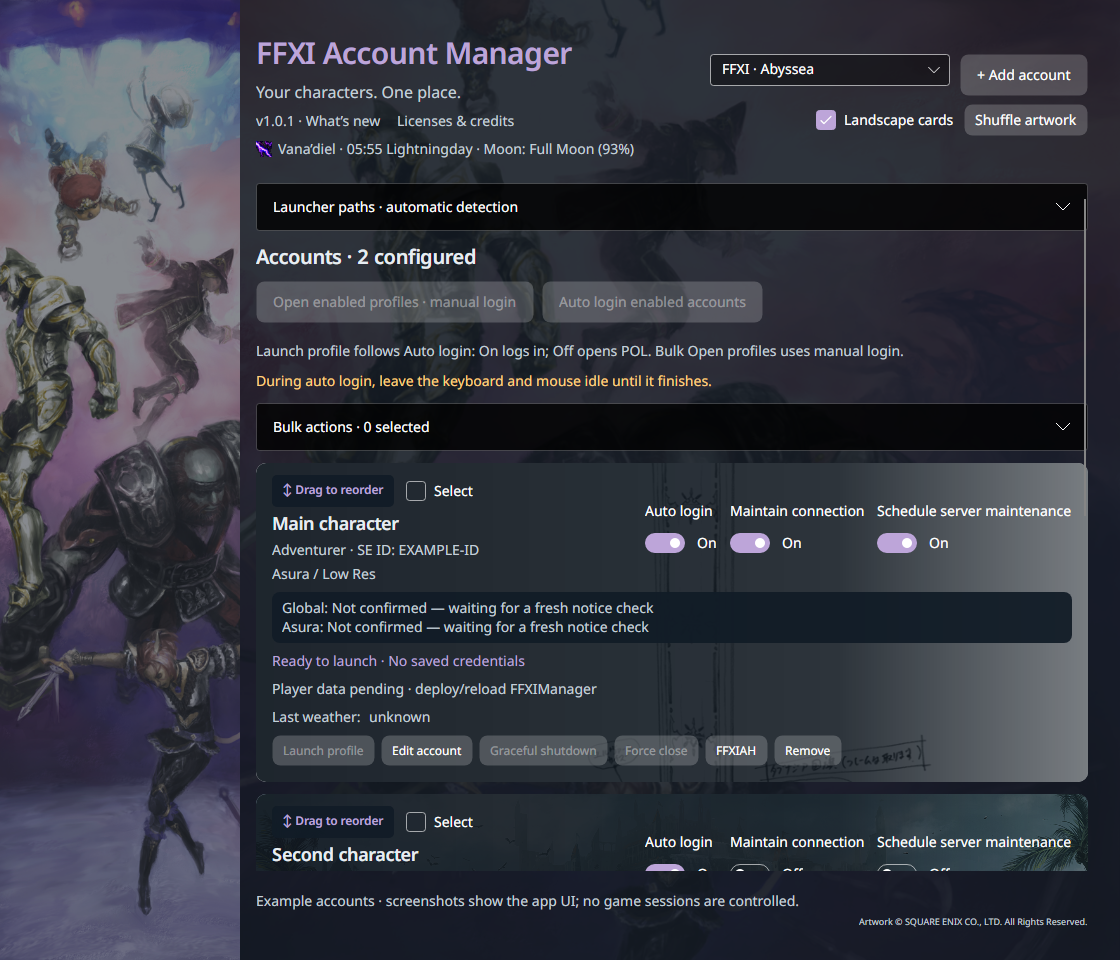
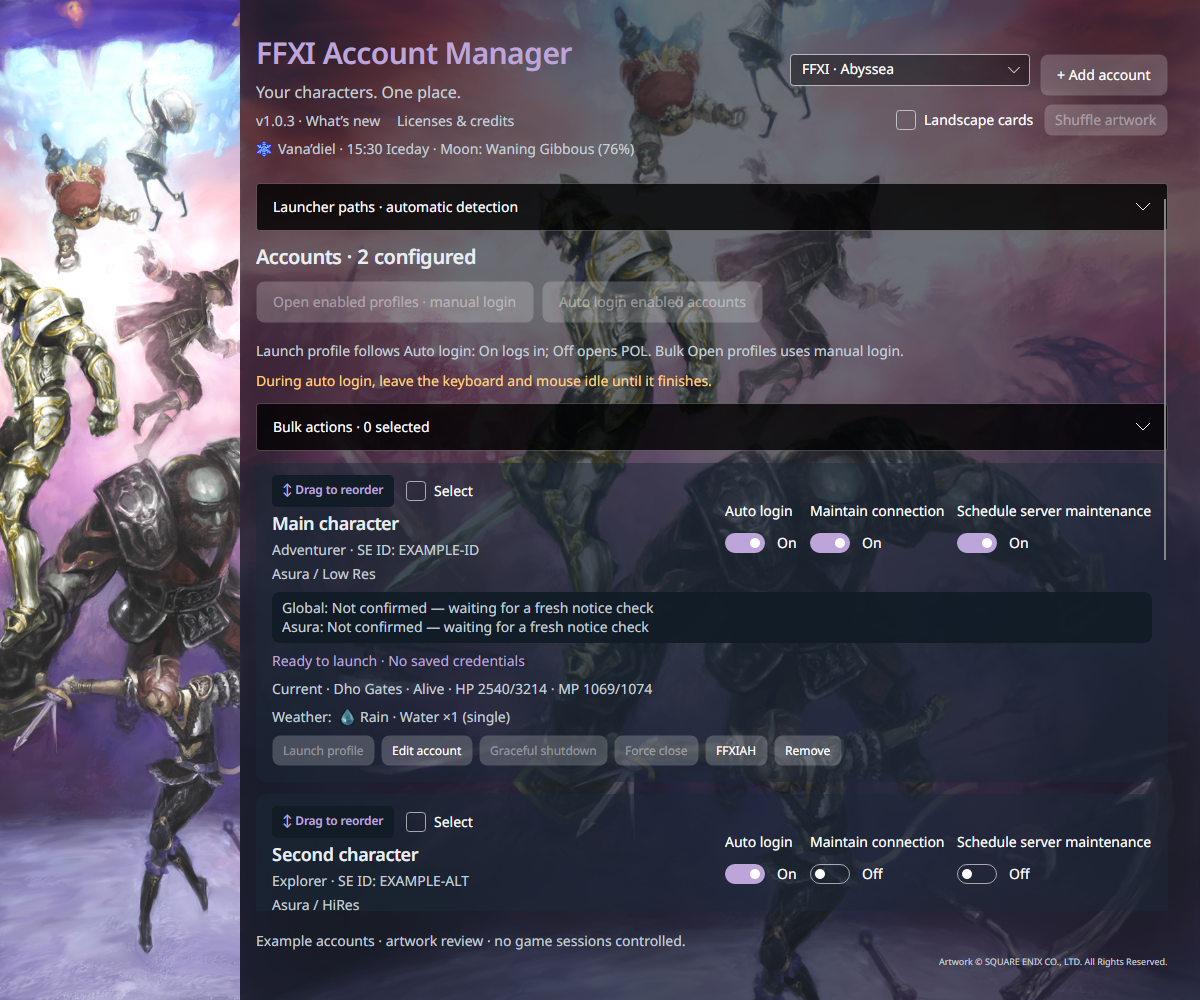
Refresh artwork themes with matching crops and translucent cards

diff --git a/tests/FFXILauncher.Desktop.Smoke/ThemePreviews.cs b/tests/FFXILauncher.Desktop.Smoke/ThemePreviews.cs
@@ -1,0 +1,76 @@
+using Avalonia;
+using Avalonia.Controls;
+using Avalonia.Headless;
+using Avalonia.Media;
+using Avalonia.Media.Imaging;
+using Avalonia.Threading;
+using FFXILauncher.Core;
+using FFXILauncher.Desktop;
+using System.Net;
+
+internal static class ThemePreviews
+{
+    public static void Render()
+    {
+        var root = Path.Combine(Path.GetTempPath(), "ffxi-theme-review-" + Guid.NewGuid());
+        Directory.CreateDirectory(root);
+        var output = "artifacts/theme-review";
+        Directory.CreateDirectory(output);
+        var main = new AccountConfiguration(Guid.NewGuid(), "Main character", "Low Res", "Adventurer", "Asura", "", "EXAMPLE-ID", true, true, ScheduleMaintenance: true);
+        var alt = new AccountConfiguration(Guid.NewGuid(), "Second character", "HiRes", "Explorer", "Asura", "", "EXAMPLE-ALT", false, true);
+        var data = Path.Combine(root, "addons", "FFXIManager", "data");
+        Directory.CreateDirectory(data);
+        foreach (var a in new[] { main, alt })
+        {
+            var time = DateTimeOffset.UtcNow.ToUnixTimeSeconds();
+            var report = $"1234567890_abcdef0123456789\n{a.Character}\n{a.World}\n{time-60}\n{time}\n";
+            var stem = a.World.ToLowerInvariant()+"_"+a.Character.ToLowerInvariant();
+            File.WriteAllText(Path.Combine(data, stem+".status"), report);
+            File.WriteAllText(Path.Combine(data, stem+".state"), report+"2540\n3214\n1069\n1074\n0\n272\nDho Gates\n0\n");
+            File.WriteAllText(Path.Combine(data, stem+".environment"), report+"272\nRain\n480\nWatersday\nFull Moon\n100\n");
+        }
+        new ConfigurationStore(root).Save(new LauncherConfiguration(WindowerPath: Path.Combine(root, "Windower.exe"), Accounts: [main,alt], LandscapeCards: false));
+        var window = new MainWindow(root, false) { Width = 1200, Height = 1000 };
+        window.Show();
+        window.FindControl<TextBlock>("Footer")!.Text = "Example accounts · artwork review · no game sessions controlled.";
+        window.FindControl<Expander>("LauncherSetup")!.IsExpanded = false;
+        foreach (var theme in ThemeCatalog.All)
+        {
+            window.FindControl<ComboBox>("ThemePicker")!.SelectedItem = theme;
+            Dispatcher.UIThread.RunJobs();
+            Capture(window, output+"/"+theme.Id+".png");
+        }
+        window.FindControl<ComboBox>("ThemePicker")!.SelectedItem = ThemeCatalog.Resolve("abyssea");
+        window.Width = 900;
+        Dispatcher.UIThread.RunJobs();
+        Capture(window, output+"/abyssea-narrow.png");
+        window.Close();
+        Sheet(ThemeCatalog.All.Where(t => t.Artwork != null).ToArray(), output, "artwork-sheet.png", 3);
+        Sheet(ThemeCatalog.All.Where(t => t.Artwork == null).ToArray(), output, "ui-sheet.png", 2);
+        var links = string.Join("\n", ThemeCatalog.All.Select(t => $"<a href='{t.Id}.png' target='_blank'><img src='{t.Id}.png' alt='{WebUtility.HtmlEncode(t.Name)}'><strong>{WebUtility.HtmlEncode(t.Name)}</strong></a>"));
+        File.WriteAllText(output+"/index.html", "<!doctype html><meta charset='utf-8'><title>FFXI theme review</title><style>body{background:#101720;color:#e5edf5;font:16px system-ui;margin:32px}main{display:grid;grid-template-columns:repeat(auto-fit,minmax(320px,1fr));gap:24px}a{color:inherit;text-decoration:none}img{width:100%;border-radius:10px}strong{display:block;margin:8px 0}</style><h1>FFXI artwork themes</h1><p>Actual app renders with example accounts. Click a theme for full size. Artwork is cropped at its original aspect ratio. Expanded views show a tall left panel and matching right background; character cards use the translucent setting.</p><main>"+links+"</main>");
+        Directory.Delete(root, true);
+    }
+    private static void Capture(Window window, string path)
+    {
+        using var frame = window.CaptureRenderedFrame() ?? throw new InvalidOperationException("Missing theme frame.");
+        frame.Save(path, PngBitmapEncoderOptions.Default);
+    }
+    private static void Sheet(AppTheme[] themes, string output, string name, int columns)
+    {
+        var rows = (themes.Length+columns-1)/columns;
+        var window = new Window { Width=columns*390, Height=rows*360, Background=Brush.Parse("#101720") };
+        var grid = new Grid { Margin=new Thickness(8), ColumnDefinitions=new ColumnDefinitions(string.Join(',',Enumerable.Repeat("*",columns))), RowDefinitions=new RowDefinitions(string.Join(',',Enumerable.Repeat("*",rows))) };
+        var images = new List<Bitmap>();
+        for (var i=0;i<themes.Length;i++)
+        {
+            var bitmap=new Bitmap(output+"/"+themes[i].Id+".png"); images.Add(bitmap);
+            var panel=new StackPanel { Margin=new Thickness(8), Spacing=6 };
+            panel.Children.Add(new Image { Source=bitmap, Height=318, Stretch=Stretch.Uniform });
+            panel.Children.Add(new TextBlock { Text=themes[i].Name, Foreground=Brush.Parse("#E5EDF5"), FontSize=14, HorizontalAlignment=Avalonia.Layout.HorizontalAlignment.Center });
+            Grid.SetColumn(panel,i%columns);Grid.SetRow(panel,i/columns);grid.Children.Add(panel);
+        }
+        window.Content=grid;window.Show();Dispatcher.UIThread.RunJobs();Capture(window,output+"/"+name);window.Close();
+        foreach (var image in images) image.Dispose();
+    }
+}

diff --git a/tests/FFXILauncher.Desktop.Smoke/Program.cs b/tests/FFXILauncher.Desktop.Smoke/Program.cs
@@ -237,6 +237,7 @@ if (args.Contains("--maintenance-live"))
 }
 
 AppBuilder.Configure<App>().UseSkia().UseHeadless(new AvaloniaHeadlessPlatformOptions { UseHeadlessDrawing = false }).SetupWithoutStarting();
+if (args.Contains("--theme-previews")) { ThemePreviews.Render(); return; }
 if (args.Contains("--readme-images")) { ReadmeImages.Render(); return; }
 if (args.Contains("--art-concepts")) { ArtworkConcepts.Render(); return; }
 var directory = Path.Combine(Path.GetTempPath(), "ffxi-ui-" + Guid.NewGuid());
@@ -397,12 +398,13 @@ configured.FindControl<Expander>("LauncherSetup")!.IsExpanded = false;
 Dispatcher.UIThread.RunJobs();
 using (var frame = configured.CaptureRenderedFrame() ?? throw new Exception("No configured frame")) frame.Save("artifacts/dashboard-accounts.png", PngBitmapEncoderOptions.Default);
 Console.WriteLine("PASS: configured dashboard and maintenance persistence.");
-if (ThemeCatalog.All.Count != 20 || ThemeCatalog.All.Count(t => t.Artwork != null) != 15) throw new Exception("Theme picker must contain five UI and fifteen artwork themes.");
+if (ThemeCatalog.All.Count != 16 || ThemeCatalog.All.Count(t => t.Artwork != null) != 12) throw new Exception("Theme picker must contain four dark UI and twelve artwork themes.");
 var themePicker = configured.FindControl<ComboBox>("ThemePicker")!;
 foreach (var theme in ThemeCatalog.All)
 {
     themePicker.SelectedItem = theme;
     Dispatcher.UIThread.RunJobs();
+    if (theme.Artwork != null && (!configured.FindControl<Border>("PortraitFrame")!.IsVisible || configured.FindControl<Image>("PortraitArtwork")!.Source is not CroppedBitmap || configured.FindControl<Image>("BackgroundArtwork")!.Source is not CroppedBitmap)) throw new Exception("Every artwork theme needs aspect-preserving expanded crops.");
     if (new ConfigurationStore(directory).Load().Theme != theme.Id) throw new Exception("Selected theme did not persist.");
     if ((configured.FindControl<Image>("BackgroundArtwork")!.Source != null) != (theme.Artwork != null)) throw new Exception("Artwork theme did not load: " + theme.Id + " · " + configured.FindControl<TextBlock>("Activity")!.Text);
 }
@@ -417,6 +419,10 @@ if (savedArtwork.Any(pair => shuffledArtwork[pair.Key] == pair.Value)) throw new
 configured.FindControl<CheckBox>("LandscapeCardsToggle")!.IsChecked = false;
 Dispatcher.UIThread.RunJobs();
 if (new ConfigurationStore(directory).Load().LandscapeCards) throw new Exception("Card artwork preference must persist.");
+var translucentCard = configured.FindControl<StackPanel>("AccountList")!.Children.OfType<Border>().First();
+if (translucentCard.Background is not SolidColorBrush cardBrush || cardBrush.Color.A >= 160) throw new Exception("Disabling landscape cards must reveal the theme through translucent surfaces.");
+foreach (var removed in new[] { "paper", "misareaux", "sorrows", "leafallia" })
+    if (ThemeCatalog.Resolve(removed).Id != "midnight") throw new Exception("Removed themes must fall back to Midnight.");
 configured.FindControl<CheckBox>("LandscapeCardsToggle")!.IsChecked = true;
 Dispatcher.UIThread.RunJobs();
 if (new ConfigurationStore(directory).Load().CharacterArtwork!.Any(pair => shuffledArtwork[pair.Key] != pair.Value)) throw new Exception("Toggling artwork must preserve chosen landscapes.");
@@ -429,9 +435,9 @@ if (configured.FindControl<Border>("PortraitFrame")!.IsVisible) throw new Except
 configured.Width = 1120;
 Dispatcher.UIThread.RunJobs();
 using (var frame = configured.CaptureRenderedFrame()!) frame.Save("artifacts/dashboard-ffxi-theme.png", PngBitmapEncoderOptions.Default);
-themePicker.SelectedItem = ThemeCatalog.Resolve("paper");
+themePicker.SelectedItem = ThemeCatalog.Resolve("nord");
 Dispatcher.UIThread.RunJobs();
-using (var frame = configured.CaptureRenderedFrame()!) frame.Save("artifacts/dashboard-paper-theme.png", PngBitmapEncoderOptions.Default);
+using (var frame = configured.CaptureRenderedFrame()!) frame.Save("artifacts/dashboard-nord-theme.png", PngBitmapEncoderOptions.Default);
 themePicker.SelectedItem = ThemeCatalog.Resolve("midnight");
 Dispatcher.UIThread.RunJobs();
 if (ThemeCatalog.Resolve("unknown").Id != "midnight") throw new Exception("Unknown saved theme must fall back safely.");
@@ -440,7 +446,7 @@ configured.FindControl<Button>("CopyAddonCommandButton")!.RaiseEvent(new RoutedE
 Dispatcher.UIThread.RunJobs();
 if (configured.Clipboard!.TryGetTextAsync().GetAwaiter().GetResult() != "//lua load FFXIManager" || !configured.FindControl<TextBox>("InitialAddonCommand")!.IsReadOnly) throw new Exception("Copy action must write the displayed command and retain manual text selection.");
 configured.FindControl<Grid>("AddonCommandPanel")!.IsVisible = false;
-Console.WriteLine("PASS: all twenty themes load, theme choice persists, unknown themes fall back, and command icon writes the displayed clipboard text.");
+Console.WriteLine("PASS: all sixteen themes load, theme choice persists, unknown themes fall back, and command icon writes the displayed clipboard text.");
 configured.Height = 2200;
 Dispatcher.UIThread.RunJobs();
 var beforeDrag = new ConfigurationStore(directory).Load().ConfiguredAccounts.ToArray();

diff --git a/src/FFXILauncher.Desktop/MainWindow.axaml.cs b/src/FFXILauncher.Desktop/MainWindow.axaml.cs
@@ -191,8 +191,8 @@ public sealed partial class MainWindow : Window
         }
         ThemeCatalog.Apply(theme);
         BackgroundArtwork.Source = nextArtwork;
-        PortraitArtwork.Source = theme.Portrait ? nextArtwork : null;
-        BackgroundArtwork.Opacity = theme.Portrait ? .25 : .55;
+        PortraitArtwork.Source = nextArtwork;
+        BackgroundArtwork.Opacity = .85;
         themeArtwork?.Dispose();
         themeArtwork = nextArtwork;
         ArtworkShade.IsVisible = nextArtwork != null;
@@ -202,9 +202,32 @@ public sealed partial class MainWindow : Window
     }
     private void UpdateArtworkLayout()
     {
-        var portrait = ThemeCatalog.Resolve(configuration.Theme).Portrait && Bounds.Width >= 1050;
+        var theme = ThemeCatalog.Resolve(configuration.Theme);
+        var portrait = theme.Artwork != null && Bounds.Width >= 1050;
         PortraitFrame.IsVisible = portrait;
+        ArtworkPanels.ColumnDefinitions[0].Width = new GridLength(portrait ? 240 : 0);
         MainContentGrid.Margin = new Thickness(portrait ? 256 : 32, 32, 32, 32);
+        if (themeArtwork != null && Bounds.Height > 0)
+        {
+            PortraitArtwork.Source = CropArtwork(themeArtwork, 240 / Bounds.Height, theme.SideFocus);
+            BackgroundArtwork.Source = CropArtwork(themeArtwork, Math.Max(1, Bounds.Width - (portrait ? 240 : 0)) / Bounds.Height, theme.BackgroundFocus);
+        }
+    }
+    private static CroppedBitmap CropArtwork(Bitmap source, double ratio, double focus)
+    {
+        var size = source.PixelSize;
+        var width = Math.Min(size.Width, Math.Max(1, (int)Math.Round(size.Height * ratio)));
+        var height = Math.Min(size.Height, Math.Max(1, (int)Math.Round(size.Width / ratio)));
+        var x = (int)Math.Clamp(size.Width * focus - width / 2d, 0, size.Width - width);
+        var y = (size.Height - height) / 2;
+        return new CroppedBitmap { Source = source, SourceRect = new PixelRect(x, y, width, height) };
+    }
+    private IBrush CharacterCardBrush()
+    {
+        var theme = ThemeCatalog.Resolve(configuration.Theme);
+        if (configuration.LandscapeCards || theme.Artwork == null) return ThemeCatalog.BrushFor("Surface");
+        var color = Color.Parse(theme.Surface);
+        return new SolidColorBrush(Color.FromArgb(125, color.R, color.G, color.B));
     }
     private Bitmap LandscapeBitmap(string file)
     {
@@ -452,7 +475,7 @@ public sealed partial class MainWindow : Window
             actions.Children.Add(launch); actions.Children.Add(edit); actions.Children.Add(stop); actions.Children.Add(force); actions.Children.Add(lookup); actions.Children.Add(delete);
             foreach (var button in actions.Children.OfType<Button>()) { button.Padding = new Thickness(10, 6); button.Margin = new Thickness(0, 0, 6, 4); button.FontSize = 12; }
             body.Children.Add(actions);
-            var card = new Border { Tag = account.Id, Background = ThemeCatalog.BrushFor("Surface"), CornerRadius = new CornerRadius(10), Padding = new Thickness(16, 12), Child = body };
+            var card = new Border { Tag = account.Id, Background = CharacterCardBrush(), CornerRadius = new CornerRadius(10), Padding = new Thickness(16, 12), Child = body };
             if (configuration.LandscapeCards && ThemeCatalog.Resolve(configuration.Theme).Artwork != null)
             {
                 var selectedArt = configuration.CharacterArtwork?.GetValueOrDefault(account.Id);

diff --git a/src/FFXILauncher.Desktop/ThemeCatalog.cs b/src/FFXILauncher.Desktop/ThemeCatalog.cs
@@ -5,7 +5,7 @@ using Avalonia.Styling;
 
 namespace FFXILauncher.Desktop;
 
-public sealed record AppTheme(string Id, string Name, string Background, string Surface, string Inset, string Text, string Muted, string Accent, bool Light = false, string? Artwork = null, bool Portrait = false, string? Credit = null)
+public sealed record AppTheme(string Id, string Name, string Background, string Surface, string Inset, string Text, string Muted, string Accent, bool Light = false, string? Artwork = null, bool Portrait = false, string? Credit = null, double SideFocus = .5, double BackgroundFocus = .5)
 {
     public override string ToString() => Name;
 }
@@ -18,12 +18,8 @@ public static class ThemeCatalog
         new("nord", "UI · Nord", "#2E3440", "#3B4252", "#303744", "#ECEFF4", "#C0CBDA", "#88C0D0"),
         new("dracula", "UI · Dracula", "#282A36", "#343746", "#222430", "#F8F8F2", "#C4BDDF", "#BD93F9"),
         new("mocha", "UI · Mocha", "#1E1E2E", "#313244", "#181825", "#CDD6F4", "#BAC2DE", "#CBA6F7"),
-        new("paper", "UI · Paper", "#F3F4F6", "#FFFFFF", "#E7EBF0", "#182433", "#4A586C", "#00685A", true),
         new("adoulin", "FFXI · Western Adoulin", "#151B22", "#E51E2933", "#EB141D26", "#F2E9DC", "#CEC7BB", "#E9BB72", Artwork: "Adoulin.jpg"),
-        new("leafallia", "FFXI · Lufaise Meadows", "#14211C", "#E520332B", "#EB15261E", "#F0F5E5", "#C7D8C0", "#B8DA83", Artwork: "Lufaise.jpg"),
         new("rakaznar", "FFXI · Promyvion", "#191626", "#E52C2541", "#EB201B32", "#F2EAFD", "#D1C0E1", "#C0A0F0", Artwork: "Promyvion.jpg"),
-        new("misareaux", "FFXI · Misareaux Coast", "#101E27", "#E51C3443", "#EB122532", "#E5F7FA", "#B5D4E0", "#74D5E0", Artwork: "Misareaux.jpg"),
-        new("sorrows", "FFXI · Tavnazian Safehold", "#221A18", "#E5392D26", "#EB281F1A", "#FFF0DD", "#D6C2AC", "#EBA577", Artwork: "Tavnazian.jpg"),
         new("eastern-adoulin", "FFXI · Eastern Adoulin", "#101820", "#E51B2937", "#F0111C27", "#E7EDF2", "#C3CFD8", "#97C9D6", Artwork: "EasternAdoulin.jpg", Portrait: false),
         new("ulbuka", "FFXI · East Ulbuka", "#101820", "#E51B2937", "#F0111C27", "#E7EDF2", "#C3CFD8", "#98CAB5", Artwork: "Ulbuka.jpg", Portrait: false),
         new("amano-aht", "FFXI · Treasures of Aht Urhgan", "#101820", "#E51B2937", "#F0111C27", "#E7EDF2", "#C3CFD8", "#D5C59D", Artwork: "Amano5.jpg", Portrait: true, Credit: "©2006 YOSHITAKA AMANO · © SQUARE ENIX"),
@@ -36,7 +32,7 @@ public static class ThemeCatalog
         new("abyssea", "FFXI · Abyssea", "#101820", "#E51B2937", "#F0111C27", "#E7EDF2", "#C3CFD8", "#BDA5D9", Artwork: "Illustration6.jpg", Portrait: true)
     };
 
-    public static IReadOnlyList<string> Landscapes { get; } = new[] { "Ulbuka.jpg", "Adoulin.jpg", "EasternAdoulin.jpg", "Lufaise.jpg", "Misareaux.jpg", "Promyvion.jpg", "Tavnazian.jpg" };
+    public static IReadOnlyList<string> Landscapes { get; } = new[] { "Ulbuka.jpg", "Adoulin.jpg", "EasternAdoulin.jpg", "Promyvion.jpg" };
     public static string DefaultLandscape(Guid account) => Landscapes[(int)(BitConverter.ToUInt32(account.ToByteArray(), 0) % (uint)Landscapes.Count)];
     public static AppTheme Resolve(string? id) => All.FirstOrDefault(t => t.Id == id) ?? All[0];
     public static void Apply(AppTheme theme)

diff --git a/src/FFXILauncher.Desktop/AppPayload.cs b/src/FFXILauncher.Desktop/AppPayload.cs
@@ -81,8 +81,16 @@ internal static class AppPayload
         using var iconStream = Avalonia.Platform.AssetLoader.Open(new Uri("avares://FFXILauncher.Desktop/Assets/Weather/Water.png"));
         using var icon = new Avalonia.Media.Imaging.Bitmap(iconStream);
         var nativeImageDecoded = icon.PixelSize.Width > 0 && icon.PixelSize.Height > 0;
+        var artworkThemesVerified = 0;
+        foreach (var theme in ThemeCatalog.All.Where(t => t.Artwork != null))
+        {
+            using var artworkStream = Avalonia.Platform.AssetLoader.Open(new Uri("avares://FFXILauncher.Desktop/Assets/Themes/" + theme.Artwork));
+            using var artwork = new Avalonia.Media.Imaging.Bitmap(artworkStream);
+            if (artwork.PixelSize.Width <= 0 || artwork.PixelSize.Height <= 0) throw new IOException("Invalid bundled artwork.");
+            artworkThemesVerified++;
+        }
         var installSource = InstallSource();
-        return new { Version = AppRelease.Version, Standalone, SupportFilesVerified = count, NativeImageDecoded = nativeImageDecoded,
+        return new { Version = AppRelease.Version, Standalone, SupportFilesVerified = count, ArtworkThemesVerified = artworkThemesVerified, NativeImageDecoded = nativeImageDecoded,
             InstallerPrepared = System.IO.File.Exists(Path.Combine(installSource, "FFXILauncher.Desktop.exe")),
             LicensesAvailable = AppRelease.Licenses.Contains("MIT License"), BuildIdentity };
     }

diff --git a/docs/themes/README.md b/docs/themes/README.md
@@ -1,0 +1,36 @@
+# Theme previews — v1.0.3
+
+Actual application renders with example accounts. No real credentials or game sessions are used. Landscape cards are off to show the translucent surfaces. Expanded artwork views use aspect-preserving crops in the left panel and matching right background.
+
+## Artwork themes
+
+![All twelve artwork themes](artwork-sheet.png)
+
+## Dark UI themes
+
+![Four dark UI themes](ui-sheet.png)
+
+## Full-size examples
+
+| Theme | Preview |
+|---|---|
+| UI · Midnight | [Full size](midnight.png) |
+| UI · Nord | [Full size](nord.png) |
+| UI · Dracula | [Full size](dracula.png) |
+| UI · Mocha | [Full size](mocha.png) |
+| FFXI · Western Adoulin | [Full size](adoulin.png) |
+| FFXI · Promyvion | [Full size](rakaznar.png) |
+| FFXI · Eastern Adoulin | [Full size](eastern-adoulin.png) |
+| FFXI · East Ulbuka | [Full size](ulbuka.png) |
+| FFXI · Treasures of Aht Urhgan | [Full size](amano-aht.png) |
+| FFXI · Cavernous Maw | [Full size](maw.png) |
+| FFXI · Amano · Blue illustration | [Full size](amano-blue.png) |
+| FFXI · Amano · World map | [Full size](amano-map.png) |
+| FFXI · Amano · Zilart | [Full size](amano-zilart.png) |
+| FFXI · Arita · Crystal illustration | [Full size](arita-crystal.png) |
+| FFXI · Original FFXI | [Full size](ffxi-original.png) |
+| FFXI · Abyssea | [Full size](abyssea.png) |
+
+[Narrow-window Abyssea view](abyssea-narrow.png): the side panel hides to preserve room for controls.
+
+FFXI artwork remains subject to the rights and credits in [the artwork notice](../../ARTWORK-NOTICE.md).

diff --git a/README.md b/README.md
@@ -10,7 +10,9 @@ These screenshots show the actual application UI with example accounts and no sa
 
 ![Account dashboard with an FFXI artwork theme](docs/images/dashboard.png)
 
-Use the theme picker for a UI or artwork theme, toggle landscape cards, and drag the handle on each card to reorder accounts. **Auto login** controls whether a character's Launch profile button completes login. **Maintain connection** enables recovery; **Schedule server maintenance** plans downtime around applicable notices.
+Choose one of four dark UI themes or 12 artwork themes, including Abyssea. Expanded windows show a tall cropped art panel with a matching background behind the accounts. Disable Landscape cards for more translucent account cards; enable it for separate landscape images. Images keep their aspect ratio. Drag the handle on each card to reorder accounts. **Auto login** controls whether a character's Launch profile button completes login. **Maintain connection** enables recovery; **Schedule server maintenance** plans downtime around applicable notices.
+
+[See every theme at full size](docs/themes/README.md), including the narrow-window Abyssea view.
 
 ### Configure an account
 

diff --git a/CHANGELOG.md b/CHANGELOG.md
@@ -1,5 +1,13 @@
 # Release notes
 
+## 1.0.3
+
+- Reworked all 12 artwork themes with aspect-preserving crops for a tall left panel and matching right-side background.
+- Made character cards more translucent when Landscape cards is off, keeping controls and maintenance details readable.
+- Removed Paper, Misareaux Coast, Tavnazian Safehold and Lufaise Meadows. Removed selections fall back safely to Midnight.
+- Verified bundled artwork, including Abyssea, and added a full theme-preview renderer.
+
+
 ## 1.0.2
 
 - Added a compressed, self-contained Windows executable with no loose DLL requirement.

diff --git a/src/FFXILauncher.Desktop/Assets/Themes/SOURCES.md b/src/FFXILauncher.Desktop/Assets/Themes/SOURCES.md
@@ -9,9 +9,6 @@ URL root: https://we-are-vanadiel.finalfantasyxi.com/assets/images/gallery/seaso
 |---|---|
 | Adoulin.jpg | 11/vol/8/23.jpg |
 | EasternAdoulin.jpg | 11/vol/8/24.jpg |
-| Lufaise.jpg | 11/vol/8/10.jpg |
-| Misareaux.jpg | 11/vol/8/13.jpg |
-| Tavnazian.jpg | 11/vol/8/6.jpg |
 | Promyvion.jpg | 11/vol/8/0.jpg |
 | Ulbuka.jpg | 11/vol/8/22.jpg |
 | Maw.jpg | 11/vol/8/21.jpg |
